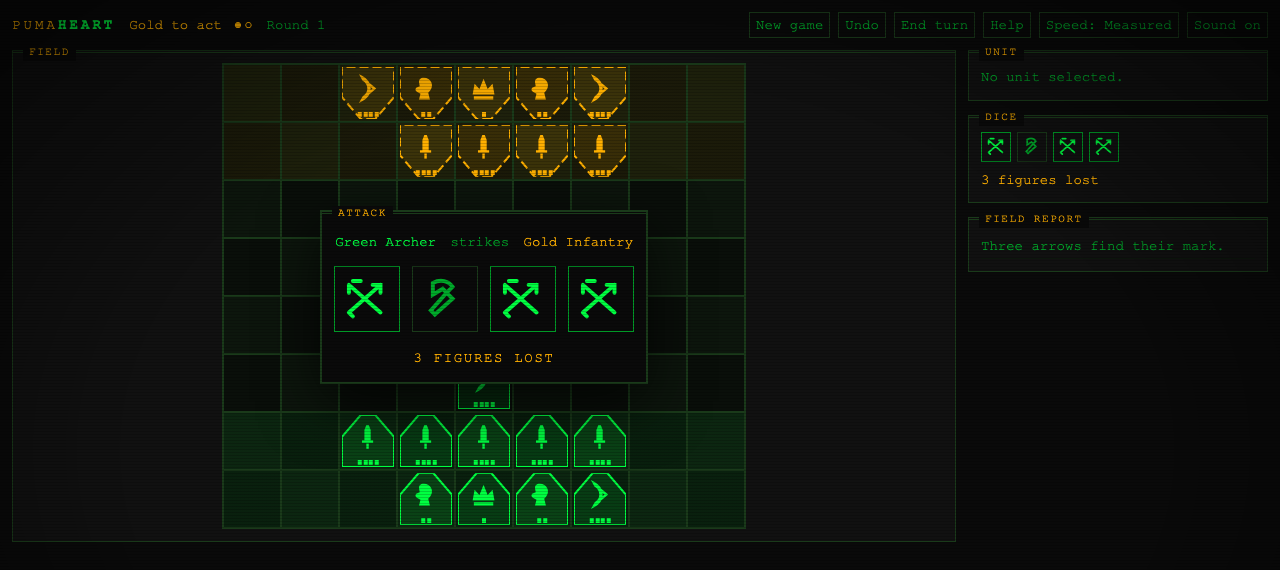
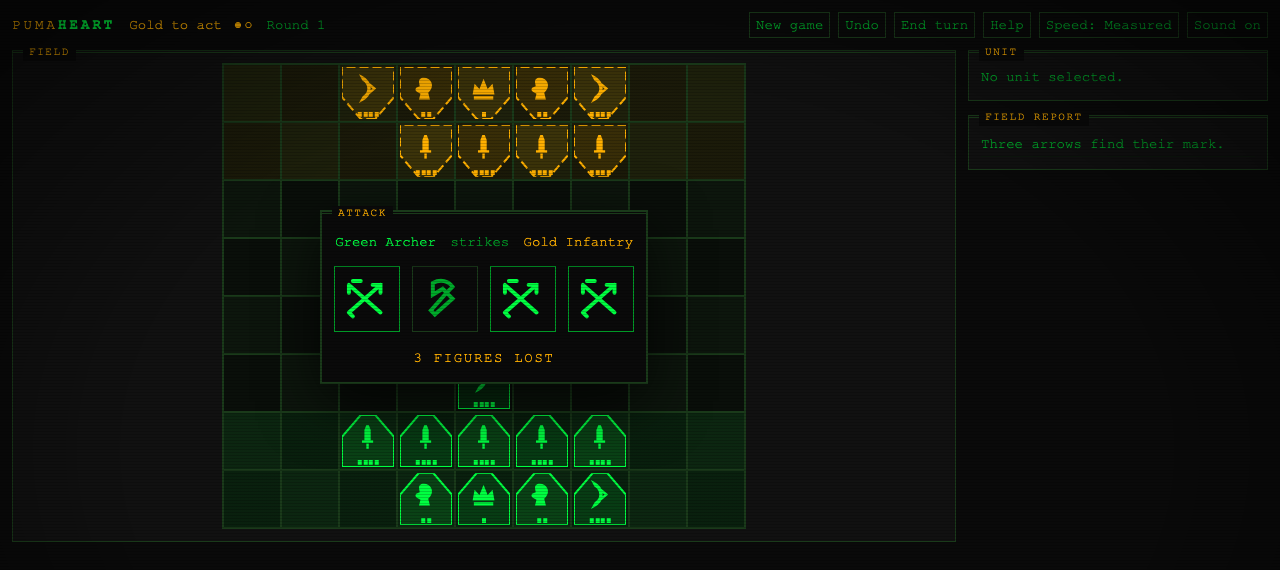
Drop the Dice panel; the field report holds the roll now
Three copies of the same four faces were on screen: the cut-in that
throws them, the Dice panel holding the last roll, and -- since the
field report started drawing dice -- the record itself. The panel was
the one nobody needed: a readout of a roll that had already been shown
once as an event and kept once as history.

Gone with it: the #tray markup, renderTray and its call, and the .die
rules. The two keyframes stay, because the cut-in's .bigdie was always
sharing them.

The panel did carry one thing the record did not. A last-man duel
throws ONE die twice, so a row can show two faces from a base that
rolls one, and the panel explained that. The log entry carries a duel
flag now: the cut-in still explains it as it happens, the row holds it
as a title for anyone reading back, and it leads the summary's
aria-label.

The field report inherits the height, which is most of the point --
five attacks visible where three fitted before.

Screenshots regenerated.

diff --git a/index.html b/index.html
@@ -315,34 +315,15 @@ table.ref td.note { color: var(--text-dim); font-size: 12px; min-width: 220px; }
 table.ref.keys { max-width: 460px; }
 .u .pipnum { position: static; font-size: 10px; color: currentColor; line-height: 1; }
 
-/* Dice tray */
-#tray .dice-row { display: flex; gap: 6px; flex-wrap: wrap; }
-.die {
-  width: 30px; height: 30px; border: 1px solid var(--border);
-  display: flex; align-items: center; justify-content: center; color: var(--text-dim);
-}
-.die svg { width: 74%; height: 74%; }
-.die svg path { fill: none; stroke: currentColor; stroke-width: 2; stroke-linecap: round; }
-.die.f-axe.scores, .die.f-arrow.scores { color: var(--green); border-color: var(--green-dark); }
-.die.f-panic { color: var(--red); border-color: var(--red-dim); }
-#tray .verdict {
-  margin: 8px 0 0; color: var(--amber);
-  transition: opacity 220ms var(--ease-out-quart);
-}
-/* Withheld until the last die stops, or there is no tension in the roll. */
-#tray .verdict.pending { opacity: 0; }
-
-/* Tumbling: dim and restless, so a settled die reads as decided. */
-.die.rolling {
-  color: var(--text-dim); border-color: var(--border);
-  animation: rollShake 150ms linear infinite;
-}
+/* Tumbling: dim and restless, so a settled die reads as decided. Both
+   keyframes belong to the cut-in's .bigdie now -- there was a Dice panel
+   holding a third copy of the same roll, and it went once the field report
+   started drawing the faces itself. */
 @keyframes rollShake {
   0%   { transform: translateY(0) rotate(-7deg); }
   50%  { transform: translateY(-3px) rotate(7deg); }
   100% { transform: translateY(0) rotate(-7deg); }
 }
-.die.settled { animation: dieLand 280ms var(--ease-out-expo); }
 @keyframes dieLand {
   from { transform: scale(1.3) rotate(-9deg); }
   to   { transform: none; }
@@ -530,7 +511,7 @@ td.step b { display: inline-block; min-width: 1.6em; text-align: center; }
 .combat-who .dim { margin: 0 6px; }
 .combat-dice { display: flex; gap: 12px; justify-content: center; }
 
-/* Four times the tray's size. The dice are the event, not a readout. */
+/* Big, because the dice are the event rather than a readout. */
 .bigdie {
   width: 66px; height: 66px; border: 1px solid var(--border);
   display: flex; align-items: center; justify-content: center;
@@ -658,10 +639,6 @@ td.step b { display: inline-block; min-width: 1.6em; text-align: center; }
     <div id="status" class="box" aria-labelledby="status-label">
       <span class="box-label" id="status-label">Unit</span>
       <div id="status-body">No unit selected.</div>
-    </div>
-    <div id="tray-box" class="box" aria-labelledby="tray-label">
-      <span class="box-label" id="tray-label">Dice</span>
-      <div id="tray" aria-live="off"></div>
     </div>
     <div id="log" class="box" aria-labelledby="log-label">
       <span class="box-label" id="log-label">Field Report</span>
@@ -2013,9 +1990,9 @@ function colourNames(escaped) {
 function attackEntryHTML(e) {
   const atk = byUid(G, e.atk), def = byUid(G, e.def);
   if (!atk || !def) return esc(e.say || "");
-  /* Scoring faces go green here exactly as they do in the dice tray, so the
-     summary can be traced back to the dice that produced it. A total panic
-     scores nothing, whatever the other faces say. */
+  /* Scoring faces go green exactly as they do in the cut-in, so the summary
+     can be traced back to the dice that produced it. A total panic scores
+     nothing, whatever the other faces say. */
   const hitFace = defOf(atk).hitFace;
   const dice = e.faces.map(f => {
     const scores = !e.panic &&
@@ -2035,14 +2012,20 @@ function attackEntryHTML(e) {
   if (e.panic) bits.push(`<span class="sum-bad">PANIC</span>`);
   if (!bits.length) bits.push(`<span class="sum-note">\u2014</span>`);
 
+  /* A last-man duel throws ONE die twice, so the row shows two faces from a
+     base that should roll one. The cut-in explains that as it happens; the
+     record carries it on the row itself, for anyone reading back. */
+  const duel = e.duel ? ` title="A single figure against armour: one die, thrown twice."` : "";
+
   return `<p class="log-who"><span class="side s${atk.side}">${esc(G.players[atk.side].name)} ${esc(defOf(atk).name)}</span>`
        + ` <span class="dim">attacks</span> ${esc(defOf(def).name)}</p>`
-       + `<p class="log-roll">${dice}<span class="log-sum" role="img"`
+       + `<p class="log-roll"${duel}>${dice}<span class="log-sum" role="img"`
        + ` aria-label="${esc(summaryAria(e))}">${bits.join(" ")}</span></p>`;
 }
 
 function summaryAria(e) {
   const out = [];
+  if (e.duel) out.push("single figure, two hits needed");
   if (e.lost) out.push(`${e.lost} ${e.lost === 1 ? "figure" : "figures"} lost`);
   if (e.killed) out.push("base destroyed");
   if (e.panic) out.push("PANIC");
@@ -2068,7 +2051,7 @@ function logAttack(res, say) {
   G.log.push({
     atk: res.atkUid, def: res.defUid, faces: res.faces.slice(),
     lost: figuresLost(res), killed: !!res.killed,
-    panic: !!res.panicSteps, say: say,
+    panic: !!res.panicSteps, duel: !!res.duel, say: say,
   });
   if (G.log.length > 200) G.log.shift();
   announce(say);
@@ -2088,7 +2071,6 @@ function updateAll() {
   renderBoard();
   playFlip();
   announceTurn();
-  renderTray();
   renderHUD();
   renderStatus();
   renderDeployBar();
@@ -3131,27 +3113,6 @@ const DIE_GLYPH = {
 const DIE_NAME = { 0: "battle-axe", 1: "arrows", 2: "PANIC" };
 const DIE_CLASS = { 0: "f-axe", 1: "f-arrow", 2: "f-panic" };
 
-function renderTray() {
-  const el = document.getElementById("tray");
-  const d = G.dice;
-  if (!d || !d.faces || !d.faces.length) { el.innerHTML = `<p class="dim">No dice cast yet.</p>`; return; }
-  const atk = byUid(G, d.atkUid), def = byUid(G, d.defUid);
-  const hitFace = defOf(atk).hitFace;
-  const faces = d.faces.map((f, i) => {
-    const counts = (hitFace === null ? (f === AXE || f === ARROW) : f === hitFace) && !d.panicSteps;
-    return `<span class="die ${DIE_CLASS[f]}${counts ? " scores" : ""}" style="--i:${i}"
-      role="img" aria-label="${DIE_NAME[f]}">
-      <svg viewBox="0 0 24 24" aria-hidden="true"><path d="${DIE_GLYPH[f]}"/></svg></span>`;
-  }).join("");
-  const verdict = d.panicSteps && !defOf(atk).panicPerDie ? "PANIC — the unit breaks"
-    : d.killed ? `${esc(defOf(def).name)} base destroyed`
-    : d.removed ? `${figuresLost(d)} ${figuresLost(d) === 1 ? "figure" : "figures"} lost`
-    : "no effect";
-  const duelNote = d.duel ? " <span class='dim'>(single figure, two hits needed)</span>" : "";
-  el.innerHTML = `<div class="dice-row">${faces}</div>
-    <p class="verdict">${esc(verdict)}${duelNote}</p>`;
-}
-
 /* ============================================================
    FLIP
    updateAll() replaces the grid wholesale, so without this a
@@ -3678,7 +3639,7 @@ const SHOTS = {
     log("Three arrows find their mark.");
   },
 
-  /* A panic chain, shown with the dice that caused it still in the tray. */
+  /* A panic chain, caught mid-cascade. */
   panic() {
     newGame(7, { setup: "basic" });
     const inf = G.units.find(u => u.side === 0 && u.type === "infantry");
